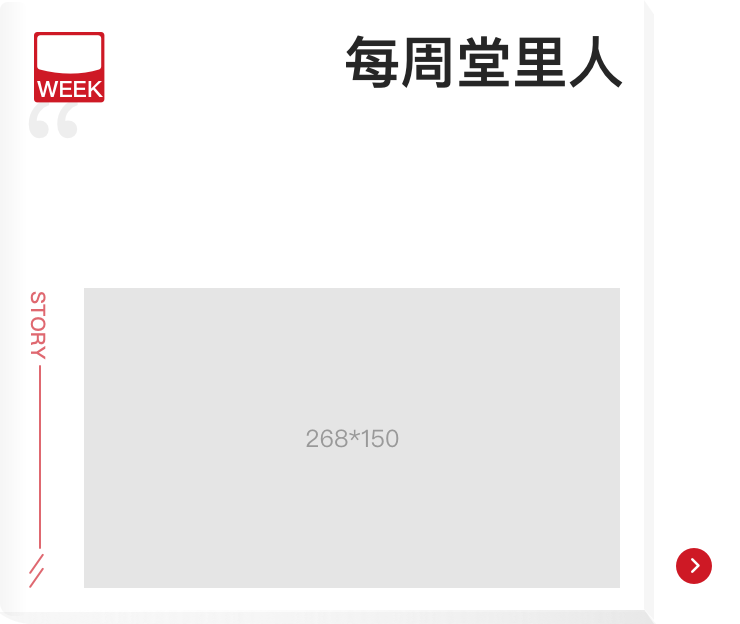
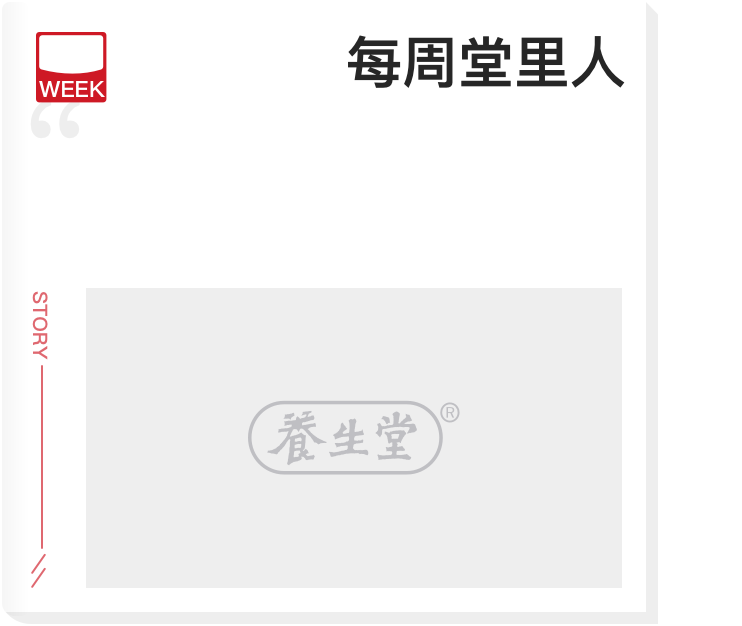
fix:bugfix,添加站位图

diff --git a/src/pages/Home/components/HallNews.jsx b/src/pages/Home/components/HallNews.jsx
@@ -45,6 +45,7 @@ const HallNews = (props) => {
   const [isPlaying, setIsPlaying] = useState(false);
   const accessToken = Cookies.get('access_token');
   useEffect(() => {
+    console.log(carouselList)
     const myDate = new Date();
     const fullYear = myDate.getFullYear();
     const month = myDate.getMonth() + 1;
@@ -256,7 +257,7 @@ const HallNews = (props) => {
           <div className={styles.leftCarousel} ref={ref}>
             <div className={styles.Carousel}>
               {
-                carouselList.length && <Swiper
+                carouselList && carouselList.length ? <Swiper
                   spaceBetween={20}
                   slidesPerView={1}
                   onSwiper={(swiper) => setSwiper(swiper)}
@@ -265,7 +266,7 @@ const HallNews = (props) => {
                   allowTouchMove={false}
                   onSlideChange={handleChange}
                 >
-                  {carouselList.map((v, i) => {
+                  {carouselList && carouselList.map((v, i) => {
                     return (
                       <SwiperSlide key={i}>
                         <div className={styles.container}>
@@ -288,7 +289,7 @@ const HallNews = (props) => {
                       </SwiperSlide>
                     );
                   })}
-                </Swiper>
+                </Swiper> : <></>
               }
             </div>
             <div className={styles.rightCarouselContent}>

diff --git a/src/pages/PersonalHomepage/index.jsx b/src/pages/PersonalHomepage/index.jsx
@@ -56,7 +56,7 @@ const PersonalHomepage = (props) => {
         <div className={styles.contentClassifie}>
           <div className={styles.classifie}>
             <img src={candyCurrency} alt="" />
-            <p className={styles.classifieNum}>{(personInfo && personInfo.coinYear) || 0}</p>
+            <p className={styles.classifieNum}>{(personInfo && personInfo.coinAll) || 0}</p>
             <p className={styles.classifieNum}>堂果币</p>
           </div>
           <div className={styles.classifie}>

diff --git a/src/components/LearningCenter/components/styles.less b/src/components/LearningCenter/components/styles.less
@@ -15,8 +15,11 @@
     .leftStudyImg {
       width: 160px;
       height: 90px;
-      background-color: #ccc;
       border-radius: 4px;
+      background: url('../../../assets/img/placeholder.png') no-repeat;
+      background-size: 78px 28px;
+      background-position: center;
+      background-color: #eee;
 
       img {
         width: 100%;
@@ -27,8 +30,6 @@
 
     .rightStudyContentInfo {
       margin-left: 12px;
-
-      // padding: 6px 0;
       >img {
         width: 26px;
         height: 14px;

diff --git a/src/pages/Home/style.less b/src/pages/Home/style.less
@@ -205,6 +205,10 @@ h3 {
         // position: relative;
         width: 487px;
         height: 278px;
+        background: url('../../assets/img/placeholder.png') no-repeat;
+        background-size: 148px 52px;
+        background-position: center;
+        background-color: #eee;
 
         cursor: pointer;
 
@@ -432,7 +436,6 @@ h3 {
         position: absolute;
         bottom: 18px;
         left: 43px;
-
         img {
           width: 268px;
           height: 150px;

diff --git a/src/components/ListDetail/styles.less b/src/components/ListDetail/styles.less
@@ -58,10 +58,17 @@ p {
     .imgOrVideo {
       margin: 0 auto;
       margin-bottom: 30px;
-
+      background: url('../../assets/img/placeholder.png') no-repeat;
+      background-size: 178px 63px;
+      background-position: center;
+      background-color: #eee;
+      width: 800px;
+      height: 447px;
+      border-radius: 2px;
       img {
         width: 800px;
         height: 447px;
+        border-radius: 2px;
       }
     }
 

diff --git a/src/pages/PersonalHomepage/components/FormData.jsx b/src/pages/PersonalHomepage/components/FormData.jsx
@@ -369,7 +369,7 @@ const FormData = (props) => {
             </Col>
             <Col span={16}>
               <Form.Item label="性别" name="operatorId">
-                <span>{detailInfo && detailInfo.FSex === 1 ? '男' : '女'}</span>
+                <span>{detailInfo && detailInfo.FSex ? (detailInfo.FSex === 1 ? '男' : '女') : '--'}</span>
               </Form.Item>
             </Col>
             <Col span={8}>

diff --git a/src/components/ListData/styles.less b/src/components/ListData/styles.less
@@ -28,6 +28,10 @@ p {
           width: 300px;
           height: 168px;
           border-radius: 3px;
+          background: url('../../assets/img/placeholder.png') no-repeat;
+          background-size: 106px 37px;
+          background-position: center;
+          background-color: #eee;
           .contentImg {
             width: 300px;
             height: 168px;
